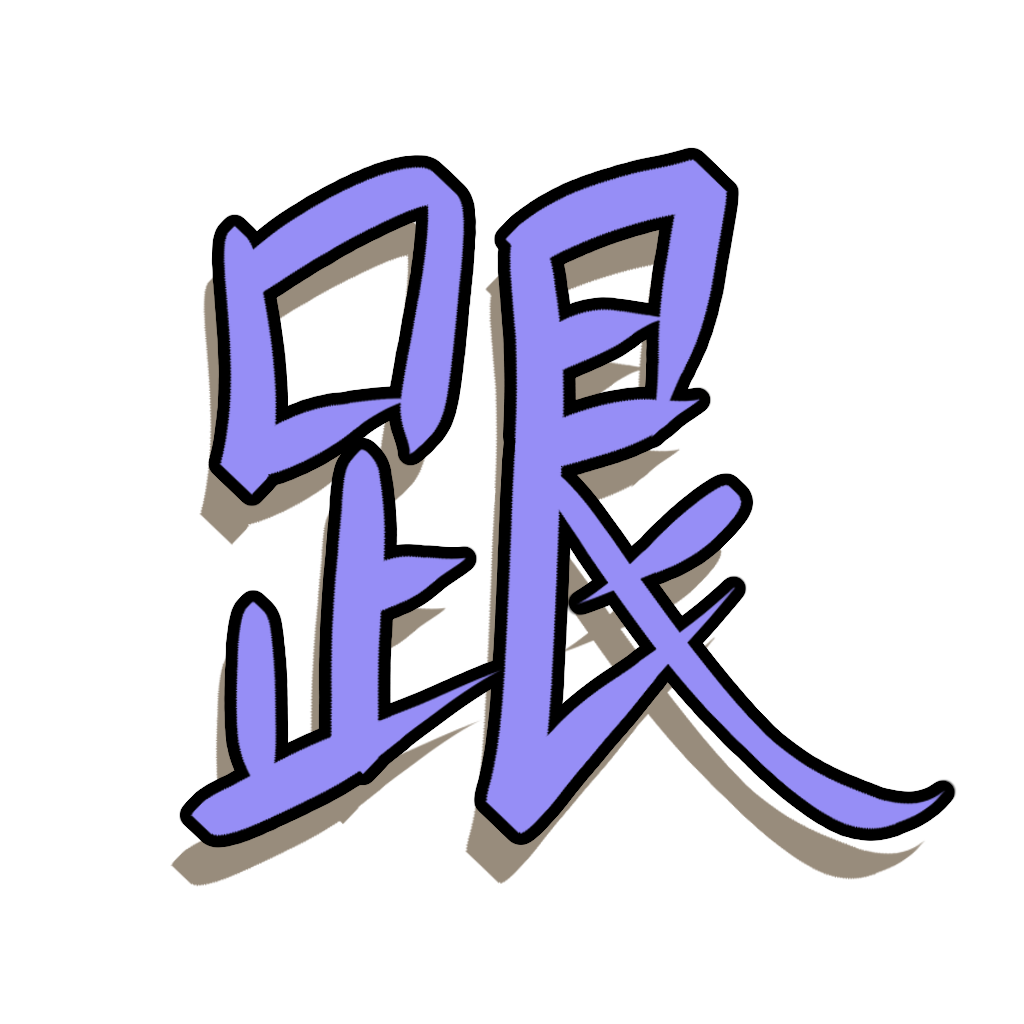
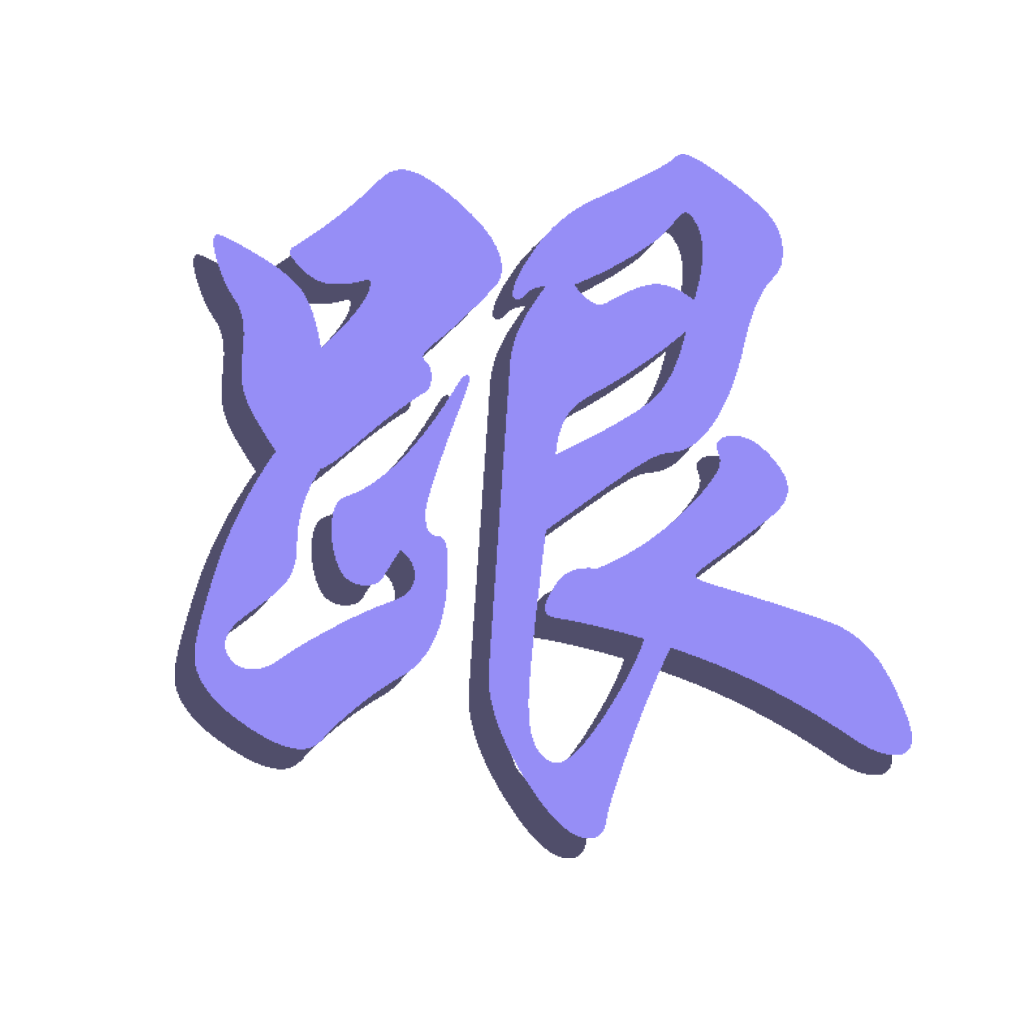
Add files via upload

Changed region(s): [[0.1562, 0.125, 0.9375, 0.875]]

diff --git a/app/(tabs)/more.jsx b/app/(tabs)/more.jsx
@@ -35,6 +35,11 @@ const More = () => {
             <Text className="text-xl px-3 font-qnormal">Dictionary data comes from CC-CEDICT, provided on <Text className="text-blue-600" onPress={() => {Linking.openURL("https://www.mdbg.net/chinese/dictionary?page=cedict")}}>mdbg.net</Text>.</Text>
           </View>
           <View className="py-2" style={{borderTopWidth: 0, borderBottomWidth: 1, borderColor: Colours[globals.theme]["text"]}}>
+            <Text className="text-xl px-3 font-qbold mb-[2px]">Images & Icons</Text>
+            <Text className="text-xl px-3 font-qnormal">Icons used are from <Text className="text-blue-600" onPress={() => {Linking.openURL("https://feathericons.com/")}}>Feather Icons</Text>.</Text>
+            <Text className="text-xl px-3 font-qnormal">Logos and splash screen were adapted from fonts on <Text className="text-blue-600" onPress={() => {Linking.openURL("https://chinese.gratis/tools/chinesecalligraphy/")}}>Chinese.gratis</Text>.</Text>
+          </View>
+          <View className="py-2" style={{borderTopWidth: 0, borderBottomWidth: 1, borderColor: Colours[globals.theme]["text"]}}>
             <Text className="text-xl px-3 font-qbold mb-[2px]">Other</Text>
             <Text className="text-xl px-3 font-qnormal">Special thanks to Hack Club's Cider program, which was what inspired the development of this application.</Text>
             <Text className="text-xl px-3 font-qnormal">Find this project on <Text className="text-blue-600" onPress={() => {Linking.openURL("https://github.com/James-Lian/genzou-chinese-literature-tool")}}>Github</Text>.</Text>

diff --git a/app/(tabs)/editor.jsx b/app/(tabs)/editor.jsx
@@ -253,16 +253,6 @@ const Editor = () => {
               <View className="flex-1 justify-center">
                 <View className="flex-row justify-end items-center gap-[12px]">
                   <TouchableOpacity
-                    onPress={() => {}}
-                  >
-                    <Image 
-                      source={Icons.save}
-                      tintColor={Colours[globals.theme]["darkerGray"]}
-                      resizeMode='contain'
-                      className="max-h-[28px] max-w-[38px]"
-                    />
-                  </TouchableOpacity>
-                  <TouchableOpacity
                     onPress={() => router.replace('/camera')}
                   >
                     <Image 
